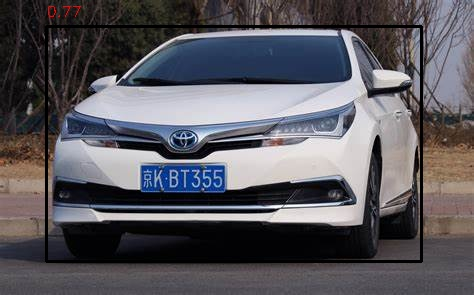
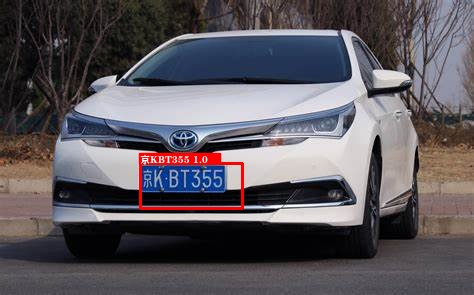
ouput_in_terminal

diff --git a/yolo_lprnet/master_liu/detect.py b/yolo_lprnet/master_liu/detect.py
@@ -224,8 +224,8 @@ def run(
 def parse_opt():
     parser = argparse.ArgumentParser()
     parser.add_argument('--weights', nargs='+', type=str, default='yolo_lprnet/master_liu/runs/train/exp/weights/best.pt', help='model path(s)')
-    parser.add_argument('--source', type=str, default='yolo_lprnet/master_liu/data/video1.mp4', help='file/dir/URL/glob, 0 for webcam')
-    # parser.add_argument('--source', type=str, default='yolo_lprnet/master_liu/data/test_img', help='file/dir/URL/glob, 0 for webcam')
+    # parser.add_argument('--source', type=str, default='yolo_lprnet/master_liu/data/video1.mp4', help='file/dir/URL/glob, 0 for webcam')
+    parser.add_argument('--source', type=str, default='yolo_lprnet/master_liu/data/trial_images', help='file/dir/URL/glob, 0 for webcam')
     parser.add_argument('--data', type=str, default='yolo_lprnet/master_liu/data/imx.yaml', help='(optional) dataset.yaml path')
     parser.add_argument('--imgsz', '--img', '--img-size', nargs='+', type=int, default=[640], help='inference size h,w')
     parser.add_argument('--conf-thres', type=float, default=0.25, help='confidence threshold')

diff --git a/yolo_lprnet/master_liu/lprr/plate.py b/yolo_lprnet/master_liu/lprr/plate.py
@@ -99,7 +99,8 @@ def dr_plate(im0, coord, plat_num):
     for i in range(0, plate.shape[1]):
         b = CHARS[plate[0][i]]
         a += b  # 将字符连接成字符串
-
+    
+    print("车牌号为：", a)
     # 画框
     cv2.rectangle(im0, (int(coord[0]), int(coord[1])), (int(coord[2]), int(coord[3])), (0, 0, 255), 2, cv2.LINE_AA)
     # 绘制文本，支持中文

diff --git a/hyperlpr_based/process_img.py b/hyperlpr_based/process_img.py
@@ -37,6 +37,7 @@ for file in os.listdir(input_folder):
     ouput_path = os.path.join(output_folder, file)
 
     all_res = catcher(img)
+    print(file, all_res[0][0])
     # 车牌标注的字体
     fontC = ImageFont.truetype("C:\Windows\Fonts\方正粗黑宋简体.ttf", 10, 0)
     # all_res为多个车牌信息的列表，取第一个车牌信息

diff --git a/hyperlpr_based/process_video.py b/hyperlpr_based/process_video.py
@@ -47,6 +47,9 @@ while True:
     
     all_res = catcher(frame)
     if all_res:
+        for res in all_res:
+            print(res[0])
+    if all_res:
         # 车牌标注的字体
         for res in all_res:
 

diff --git a/README.md b/README.md
@@ -6,13 +6,16 @@
 - 基于opencv库实现图片与视频文件的读取与保存
 - 基于hyperlpr库实现车牌检测功能
 - 基于PIL库框出车牌并标签
+- 编写输出让车牌信息输出到终端
 
 #### YOLO_lpr_based
 - 导入基于pytorch的lprnet库和YOLOv5库及其相应训练权重
+- 修改lprnet使lprnet支持输出中文
 - 编写de_lpr函数实现基于lprnet的车牌字符识别功能
 - 编写dr_plate函数实现基于PIL库的车牌标签功能
 - 修改YOLOv5的detect.py文件，将YOLOv5识别的车牌位置信息传入de_lpr函数识别车牌字符并用dr_plate函数替换原标签函数
 - 更改YOLOv5文件读取及模型权重载入的路径
+- 编写输出让车牌信息输出到终端
 
 ### 运行方法
 **环境要求**
